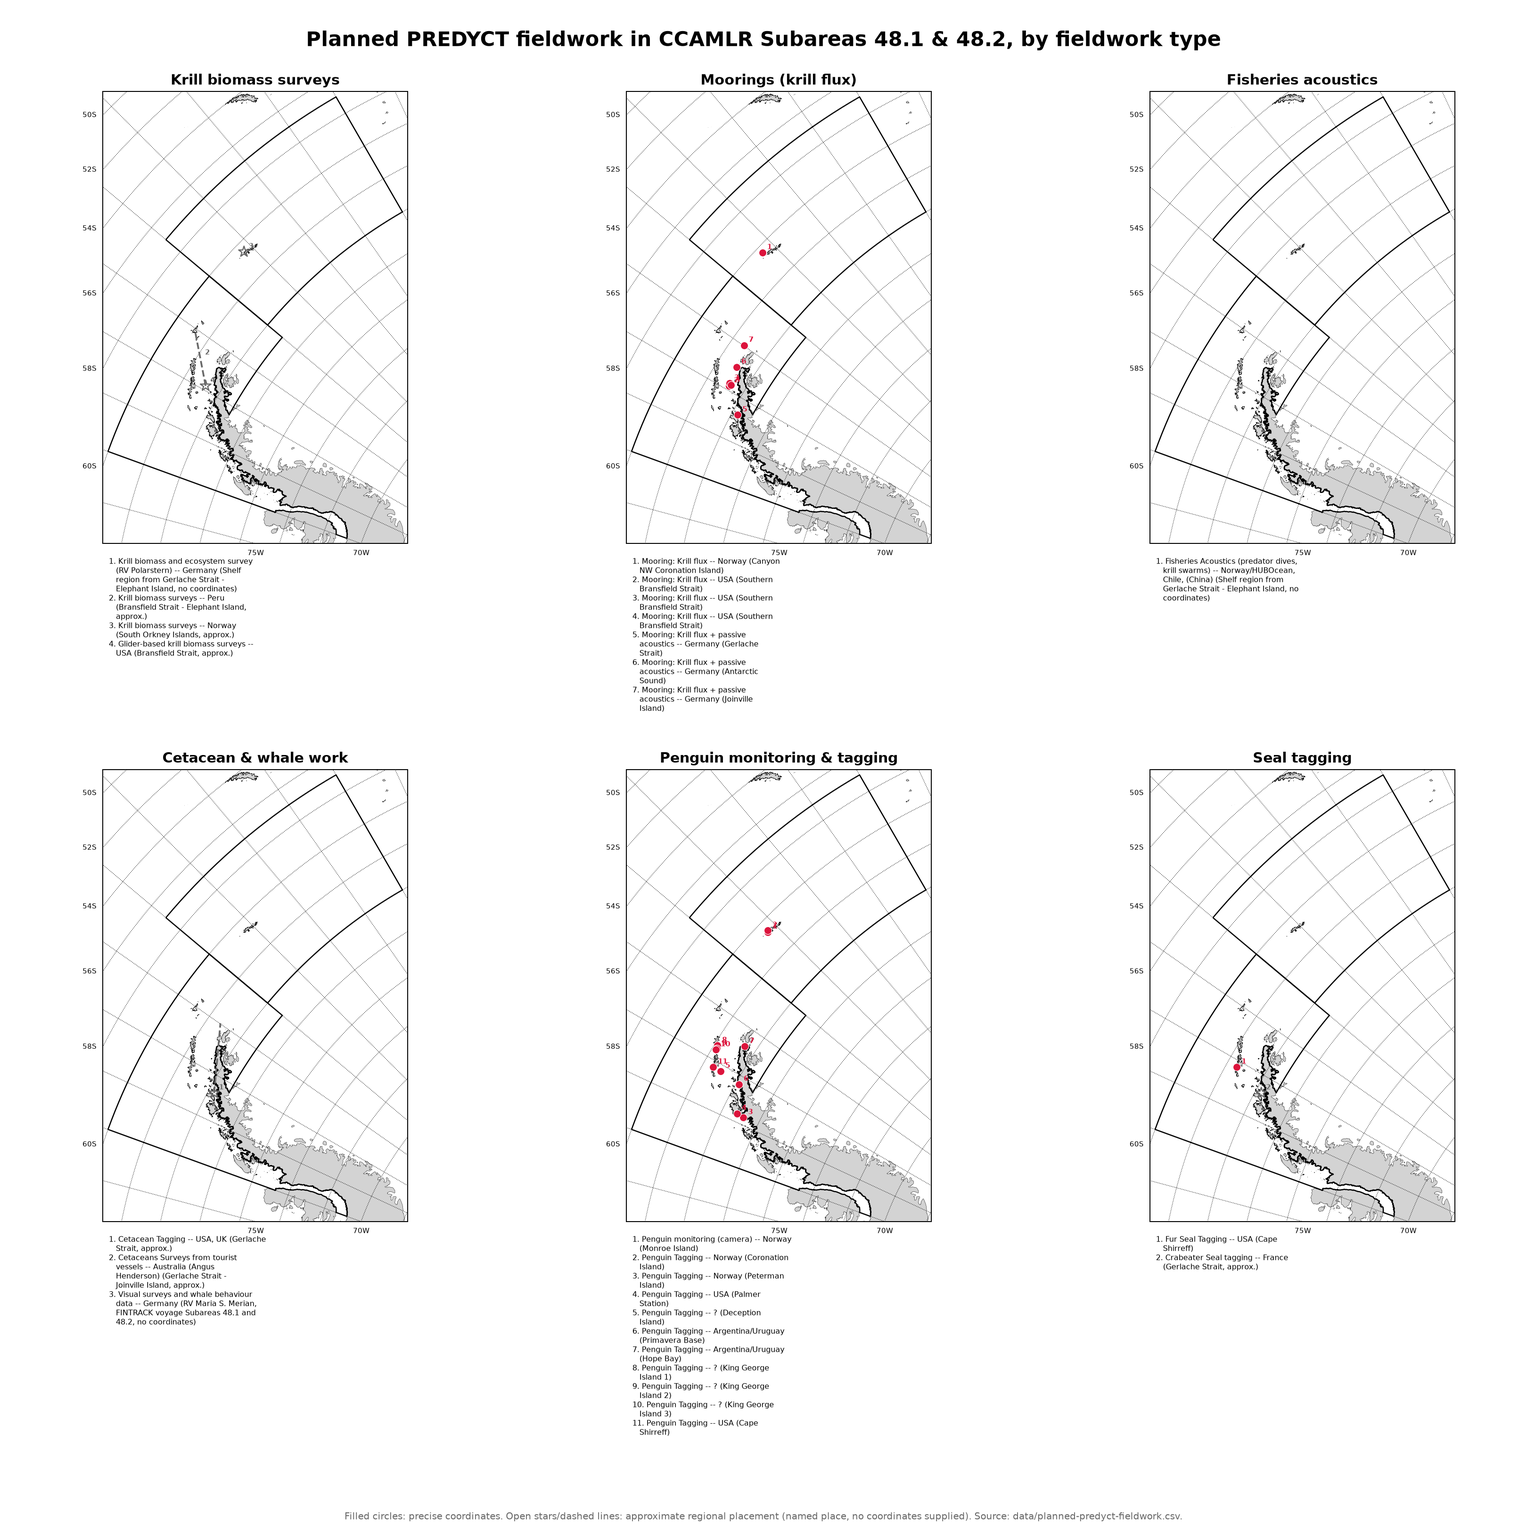
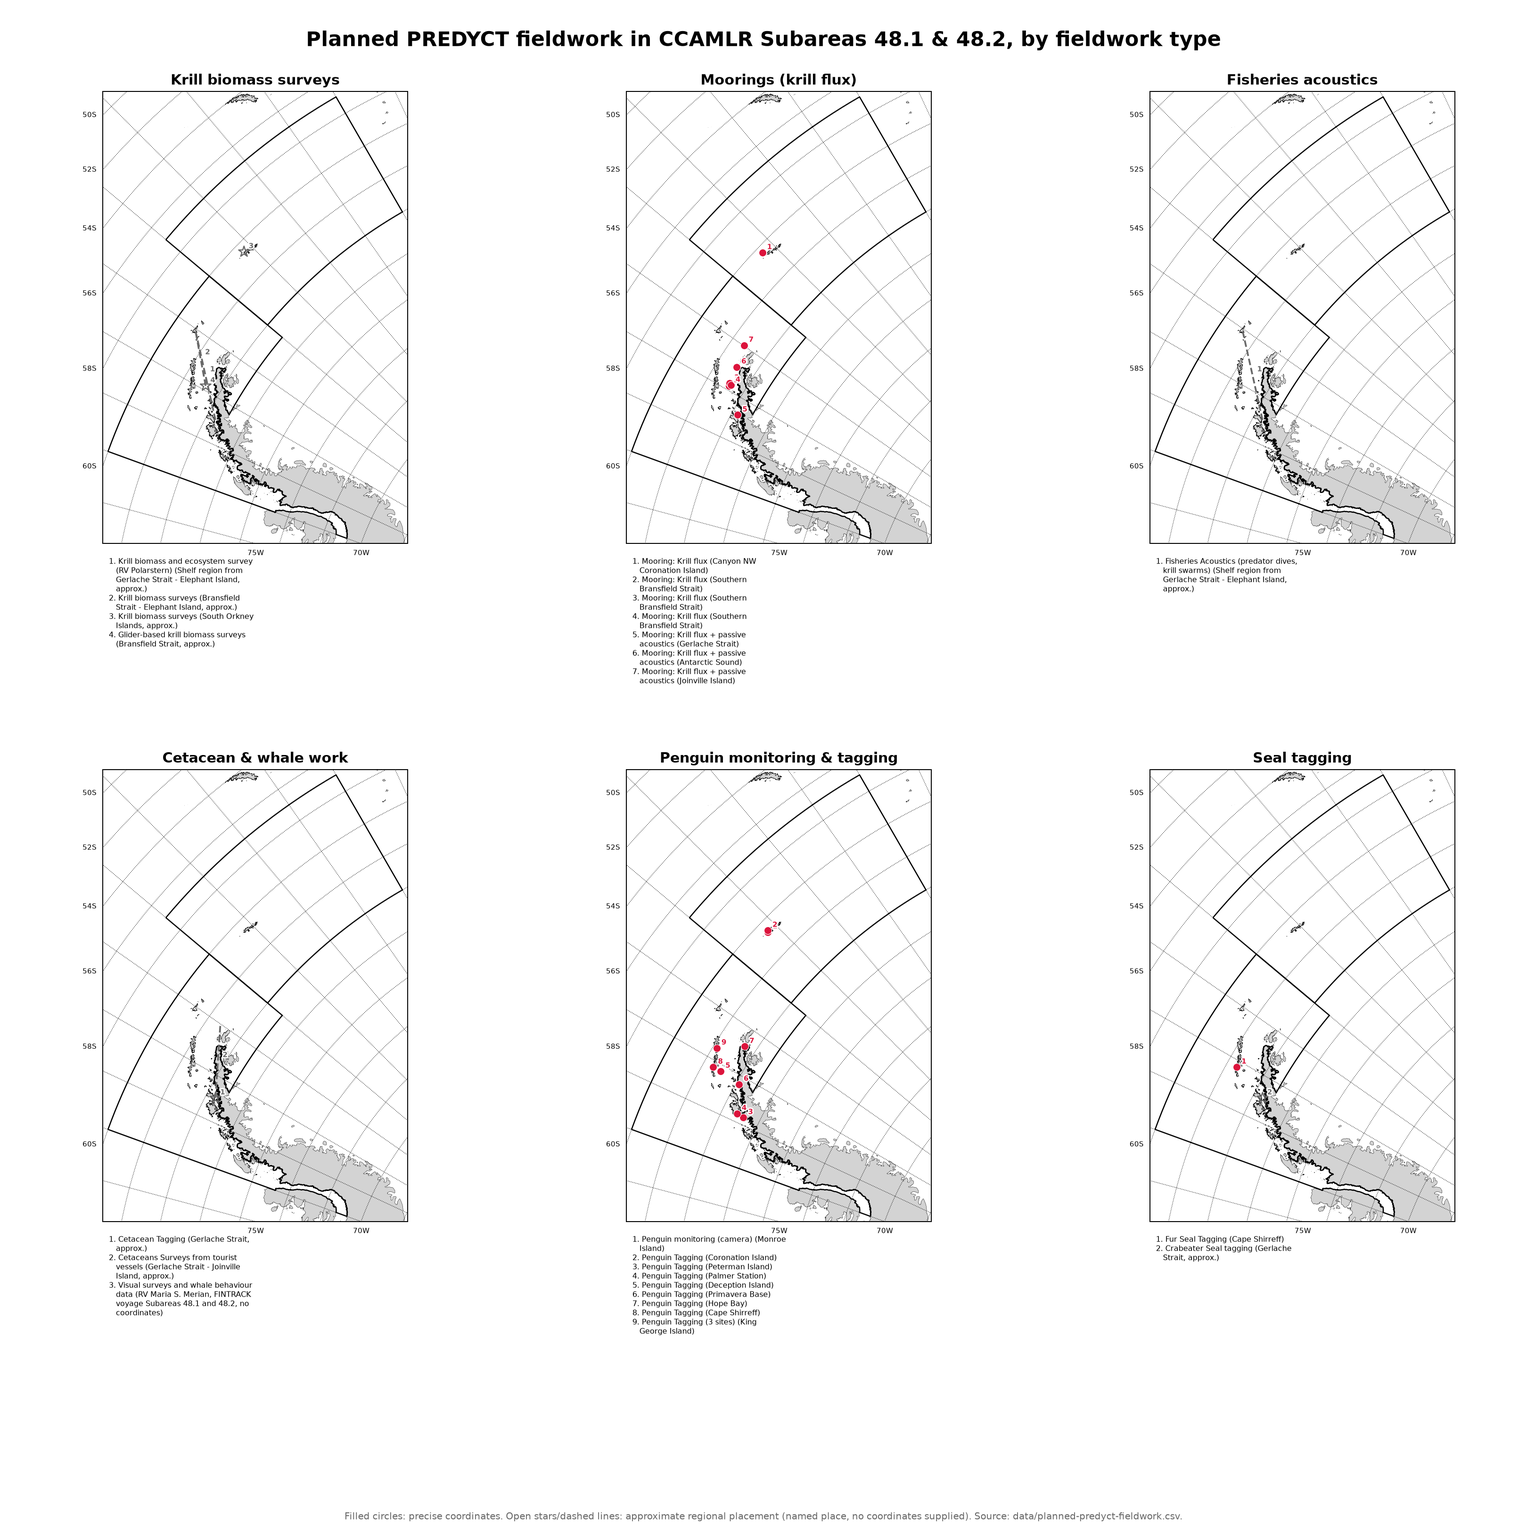
Add fieldwork summary map; group nearby sites and improve label legibility
New: make_subarea48_fieldwork_summary.py -> output/subarea48_fieldwork_summary.png,
a single unfaceted map of every planned activity. Its purpose is to show
*where* effort concentrates (e.g. that Gerlache Strait has both cetacean
tagging and crabeater seal tagging planned), which the by-country/by-type
figures can't show since each activity sits in its own panel. An earlier
prototype tried colour-coding markers by fieldwork type on this map, but
translucent same-point markers of different colours visually blend into a
colour matching neither legend entry, so activities sharing a place are
instead grouped into one marker with all activities named in its footnote.

fieldwork_common.py:
- New group_nearby(): collapses rows at the same named place (or explicitly
  aliased via LOCATION_ALIASES, e.g. three King George Island penguin-tagging
  entries) into a single marker/footnote entry instead of stacking near-
  duplicate markers. Used by build_figure() per-panel and by the new
  build_single_map() for the summary figure.
- New _resolve_place(): PLACE_COORDS lookup now tries an exact match first,
  then falls back to substring containment. Fixes a real bug where "Shelf
  region from Gerlache Strait - Elephant Island" split on " - " produced
  "Shelf region from Gerlache Strait", which never exact-matched the
  "Gerlache Strait" key -- silently dropping 2 CSV rows (Germany's krill
  biomass survey, the Fisheries Acoustics row) to "no coordinates" on every
[…]

diff --git a/fieldwork_common.py b/fieldwork_common.py
@@ -1,6 +1,7 @@
 """Shared plotting logic for the planned-PREDYCT-fieldwork figures
-(by-country and by-fieldwork-type). See make_subarea48_fieldwork_by_country.py
-and make_subarea48_fieldwork_by_type.py.
+(by-country, by-fieldwork-type, and summary). See
+make_subarea48_fieldwork_by_country.py, make_subarea48_fieldwork_by_type.py
+and make_subarea48_fieldwork_summary.py.
 
 Uses ccamlrgis (https://github.com/Zephyr-Sylvester/ccamlrgis-py).
 """
@@ -8,6 +9,7 @@ Uses ccamlrgis (https://github.com/Zephyr-Sylvester/ccamlrgis-py).
 import textwrap
 from collections.abc import Sequence
 
+import matplotlib.patheffects as pe
 import matplotlib.pyplot as plt
 import pandas as pd
 
@@ -17,20 +19,34 @@ import ccamlrgis.plot as cgplot
 CSV_PATH = "data/planned-predyct-fieldwork.csv"
 FOOTNOTE_WRAP_WIDTH = 40
 
-# Reference points for named places the CSV gives no coordinates for,
-# reused from precise coordinates elsewhere in the same CSV where
-# possible (Gerlache Strait, Joinville Island, Bransfield Strait via the
-# Southern Bransfield Strait moorings, South Orkney Islands via the
-# Coronation/Monroe Island cluster) -- Elephant Island is the one place
-# not otherwise pinned down in the data, using its standard charted
-# position. These are regional approximations, not survey boundaries --
-# plotted with a distinct (open star) marker from precise GPS points.
+# Reference points for named places the CSV gives no coordinates for.
+# Manually curated (not derived/eyeballed from other rows) so they stay
+# accurate regardless of what else is in the CSV -- Gerlache Strait and
+# Elephant Island are charted-position centres; Joinville Island,
+# Bransfield Strait and South Orkney Islands are still approximated from
+# nearby precise points elsewhere in the CSV and could use the same
+# manual treatment if better reference coordinates turn up. These are
+# regional approximations, not survey boundaries -- plotted with a
+# distinct (open star) marker from precise GPS points.
 PLACE_COORDS = {
-    "Elephant Island": (-61.133, -55.183),
-    "Gerlache Strait": (-64.3185261, -61.8927691),
+    "Elephant Island": (-61.1333, -55.1167),  # 61 deg 08' S, 55 deg 07' W
+    "Gerlache Strait": (-64.5000, -62.3333),  # 64 deg 30' 00" S, 62 deg 20' 00" W
     "Joinville Island": (-62.685, -54.941),
     "Bransfield Strait": (-63.183, -59.517),
     "South Orkney Islands": (-60.5, -45.9),
+}
+
+# Manually curated: distinct named sites close enough together that
+# showing each on its own marker adds clutter without adding information
+# (e.g. three King George Island tagging sites, a few km apart, on a map
+# already showing a dozen other things). Deliberately a manual alias
+# table rather than a distance-threshold clustering algorithm, so
+# grouping stays predictable and doesn't silently change if a new site
+# happens to land near an existing one.
+LOCATION_ALIASES = {
+    "King George Island 1": "King George Island",
+    "King George Island 2": "King George Island",
+    "King George Island 3": "King George Island",
 }
 
 
@@ -57,44 +73,149 @@ def draw_basemap(ax: plt.Axes, coast_land, asds48, bounds: tuple[float, float, f
     cgplot.add_reference_grid(ax=ax, bounds=bounds, res_lat=2, res_lon=5, fontsize=6, linewidth=0.5)
 
 
+def _halo_annotate(ax: plt.Axes, text: str, xy: tuple[float, float], color: str) -> None:
+    """Number label with a white halo so it stays legible over the
+    (often busy) bathymetry/coastline/marker it sits on, instead of
+    plain coloured text that can disappear against similarly-coloured
+    backgrounds."""
+    artist = ax.annotate(
+        text,
+        xy,
+        color=color,
+        fontsize=6,
+        fontweight="bold",
+        xytext=(4, 3),
+        textcoords="offset points",
+        zorder=6,
+    )
+    artist.set_path_effects([pe.withStroke(linewidth=2.2, foreground="white")])
+
+
+def _resolve_place(text: str) -> tuple[float, float] | None:
+    """Look up a named place in PLACE_COORDS -- exact match first, then
+    substring containment, so e.g. "Shelf region from Gerlache Strait"
+    (one half of a range like "Shelf region from Gerlache Strait -
+    Elephant Island") still resolves via the "Gerlache Strait" entry
+    instead of silently failing to match and never being drawn."""
+    text = text.strip()
+    if text in PLACE_COORDS:
+        return PLACE_COORDS[text]
+    for name, coord in PLACE_COORDS.items():
+        if name in text:
+            return coord
+    return None
+
+
 def plot_row(ax: plt.Axes, row: pd.Series, number: int, label: str) -> str:
     """Draw one CSV row onto ax as a small numbered marker. Returns the
     footnote line ('N. <label> (Location)') listing what that number is,
     for every row -- markers carry a number, not full text, to stay
     legible when several sites cluster close together. `label` is
     whatever the caller wants shown alongside each footnote entry (the
-    activity for the by-country figure, activity + country for the
-    by-type one, so the country isn't lost just because it's no longer
-    the grouping dimension)."""
+    activity for the by-country figure, activity alone for the by-type
+    one, activity + country for the summary)."""
     lat, lon = row["Latitude"], row["Longitude"]
     location = row["Location"]
-    label_kwargs = dict(fontsize=6, fontweight="bold", xytext=(4, 3), textcoords="offset points", zorder=6)
 
     if pd.notna(lat) and pd.notna(lon):
         x, y = project(lat, lon)
         ax.scatter([x], [y], marker="o", color="crimson", edgecolor="white", linewidth=0.5, s=42, zorder=5)
-        ax.annotate(str(number), (x, y), color="crimson", **label_kwargs)
+        _halo_annotate(ax, str(number), (x, y), color="crimson")
         return f"{number}. {label} ({location})"
 
     if " - " in location:
         a, b = (p.strip() for p in location.split(" - ", 1))
-        pa, pb = PLACE_COORDS.get(a), PLACE_COORDS.get(b)
+        pa, pb = _resolve_place(a), _resolve_place(b)
         if pa is not None and pb is not None:
             xa, ya = project(*pa)
             xb, yb = project(*pb)
             ax.plot([xa, xb], [ya, yb], linestyle="--", color="dimgrey", linewidth=1.5, zorder=3)
             mx, my = (xa + xb) / 2, (ya + yb) / 2
-            ax.annotate(str(number), (mx, my), color="dimgrey", **label_kwargs)
+            _halo_annotate(ax, str(number), (mx, my), color="dimgrey")
             return f"{number}. {label} ({location}, approx.)"
 
-    place = PLACE_COORDS.get(location)
+    place = _resolve_place(location)
     if place is not None:
         x, y = project(*place)
         ax.scatter([x], [y], marker="*", facecolor="none", edgecolor="dimgrey", linewidth=1, s=90, zorder=4)
-        ax.annotate(str(number), (x, y), color="dimgrey", **label_kwargs)
+        _halo_annotate(ax, str(number), (x, y), color="dimgrey")
         return f"{number}. {label} ({location}, approx.)"
 
     return f"{number}. {label} ({location}, no coordinates)"
+
+
+def group_nearby(df: pd.DataFrame, label_col: str) -> pd.DataFrame:
+    """Combine rows that represent the same place into one, so the map
+    shows a single labelled marker instead of several stacked/crowded
+    ones. Two cases collapse together: rows with no precise coordinates
+    that share an exact Location string (e.g. cetacean tagging and
+    crabeater seal tagging, both just "Gerlache Strait" -- without this
+    they'd draw two translucent markers stacked exactly on top of each
+    other, which optically blend into a colour matching neither); and
+    precise-coordinate rows whose Location is in LOCATION_ALIASES (e.g.
+    three King George Island sites). Genuinely distinct precise points
+    with no alias are left untouched.
+    """
+    df = df.copy()
+    df["_place"] = df["Location"].map(lambda loc: LOCATION_ALIASES.get(loc, loc))
+    has_coords = df["Latitude"].notna() & df["Longitude"].notna()
+    # Only cluster precise points when their Location is aliased to
+    # something else -- otherwise every row is its own "cluster" of one
+    # and this is a no-op passthrough for genuinely distinct GPS points.
+    should_group = ~has_coords | (df["Location"] != df["_place"])
+
+    rows = [row.to_dict() for _, row in df[~should_group].iterrows()]
+    for _, sub in df[should_group].groupby("_place", sort=False):
+        labels = list(sub[label_col])
+        if len(labels) > 1 and len(set(labels)) == 1:
+            combined_label = f"{labels[0]} ({len(labels)} sites)"
+        else:
+            combined_label = "; ".join(labels)
+        sub_has_coords = sub["Latitude"].notna() & sub["Longitude"].notna()
+        rows.append(
+            {
+                "Location": sub["_place"].iloc[0],
+                label_col: combined_label,
+                "Latitude": sub.loc[sub_has_coords, "Latitude"].mean() if sub_has_coords.any() else float("nan"),
+                "Longitude": sub.loc[sub_has_coords, "Longitude"].mean() if sub_has_coords.any() else float("nan"),
+            }
+        )
+    return pd.DataFrame(rows)
+
+
+def build_single_map(
+    df: pd.DataFrame,
+    label_col: str,
+    title: str,
+    caption: str,
+    out_path: str,
+    figsize: tuple[float, float] = (14, 12),
+) -> None:
+    """One map, every row plotted, no panel grouping -- for a figure
+    meant to show *where effort concentrates* across all activities at
+    once, not to compare across a country/type dimension. The numbered
+    footnote list sits in a sidebar (not below the map) since a
+    non-faceted figure can have many more rows to list than any one
+    panel in the faceted figures does."""
+    df = group_nearby(df, label_col)
+
+    asds = cg.load_asds()
+    asds48 = asds[asds["GAR_Short_Label"].isin(["481", "482"])]
+    coast = cg.load_coastline()
+    coast_land = coast[coast["surface"] == "Land"]
+    bounds = tuple(asds48.buffer(30_000).total_bounds)
+
+    fig = plt.figure(figsize=figsize)
+    ax = fig.add_axes((0.03, 0.06, 0.62, 0.88))
+    draw_basemap(ax, coast_land, asds48, bounds)
+    ax.set_title(title, fontsize=15, fontweight="bold")
+
+    footnotes = [plot_row(ax, row, number, row[label_col]) for number, (_, row) in enumerate(df.iterrows(), start=1)]
+    wrapped = "\n".join(textwrap.fill(line, width=55, subsequent_indent="    ") for line in footnotes)
+    fig.text(0.67, 0.94, wrapped, fontsize=8, va="top", ha="left")
+    fig.text(0.5, 0.01, caption, fontsize=8, ha="center", color="dimgrey")
+    fig.savefig(out_path, dpi=170)
+    print(f"Saved {out_path}")
 
 
 def build_figure(
@@ -113,10 +234,11 @@ def build_figure(
 ) -> None:
     """Shared figure builder: one panel per `group_col` value (in
     `group_order`), each row within that group labelled with its
-    `label_col` value in the footnote list. `hspace` should scale with
-    how many rows the busiest panel's footnote list needs -- a panel
-    with many sites (e.g. 10+ tagging locations) needs more room than
-    one with a couple of survey areas."""
+    `label_col` value in the footnote list -- rows representing the same
+    place are combined first (see `group_nearby`). `hspace` should scale
+    with how many rows the busiest panel's footnote list needs -- a
+    panel with many sites needs more room than one with a couple of
+    survey areas."""
     asds = cg.load_asds()
     asds48 = asds[asds["GAR_Short_Label"].isin(["481", "482"])]
     coast = cg.load_coastline()
@@ -128,10 +250,8 @@ def build_figure(
         draw_basemap(ax, coast_land, asds48, bounds)
         ax.set_title(group_labels.get(group, group), fontsize=12, fontweight="bold")
 
-        footnotes = [
-            plot_row(ax, row, number, row[label_col])
-            for number, (_, row) in enumerate(df[df[group_col] == group].iterrows(), start=1)
-        ]
+        panel_df = group_nearby(df[df[group_col] == group], label_col)
+        footnotes = [plot_row(ax, row, number, row[label_col]) for number, (_, row) in enumerate(panel_df.iterrows(), start=1)]
         wrapped = "\n".join(
             textwrap.fill(line, width=FOOTNOTE_WRAP_WIDTH, subsequent_indent="   ") for line in footnotes
         )

diff --git a/make_subarea48_fieldwork_summary.py b/make_subarea48_fieldwork_summary.py
@@ -1,0 +1,36 @@
+"""Summary map of planned CCAMLR PREDYCT fieldwork in Subareas 48.1
+(Antarctic Peninsula) and 48.2 (South Orkney Islands): one map, every
+activity, no faceting by country or type -- the point is to show *where*
+effort concentrates, e.g. that Gerlache Strait has both cetacean tagging
+and crabeater seal tagging planned, which the by-country/by-type figures
+(each activity in its own panel) can't show. Rows representing the same
+place are combined into a single labelled marker rather than several
+stacked/crowded ones -- see fieldwork_common.group_nearby.
+
+Uses ccamlrgis (https://github.com/Zephyr-Sylvester/ccamlrgis-py).
+"""
+
+from fieldwork_common import build_single_map, load_fieldwork
+
+OUT_PATH = "output/subarea48_fieldwork_summary.png"
+
+
+def main() -> None:
+    df = load_fieldwork()
+    df["Label"] = df["Activity"] + " -- " + df["Who"]
+
+    build_single_map(
+        df,
+        label_col="Label",
+        title="Planned PREDYCT fieldwork in CCAMLR Subareas 48.1 & 48.2 -- summary",
+        caption=(
+            "Filled circles: precise coordinates. Open stars/dashed lines: approximate regional placement "
+            "(named place, no coordinates supplied); activities/sites sharing a place are listed together "
+            "under one marker. Source: data/planned-predyct-fieldwork.csv."
+        ),
+        out_path=OUT_PATH,
+    )
+
+
+if __name__ == "__main__":
+    main()

diff --git a/make_subarea48_fieldwork_by_type.py b/make_subarea48_fieldwork_by_type.py
@@ -5,8 +5,6 @@ Peninsula) and 48.2 (South Orkney Islands), one panel per fieldwork type
 Uses ccamlrgis (https://github.com/Zephyr-Sylvester/ccamlrgis-py).
 """
 
-import pandas as pd
-
 from fieldwork_common import build_figure, load_fieldwork
 
 OUT_PATH = "output/subarea48_fieldwork_by_type.png"
@@ -44,16 +42,13 @@ def main() -> None:
     unmatched = df[df["FieldworkType"] == "Other"]
     if not unmatched.empty:
         raise ValueError(f"Uncategorised activities, update categorize(): {unmatched['Activity'].tolist()}")
-    # who is doing it, shown alongside the (now panel-grouped) activity, e.g.
-    # "Mooring: Krill flux + passive acoustics -- Germany"
-    df["ActivityWho"] = df["Activity"] + " -- " + df["Who"]
 
     build_figure(
         df,
         group_col="FieldworkType",
         group_order=TYPE_ORDER,
         group_labels={},
-        label_col="ActivityWho",
+        label_col="Activity",
         title="Planned PREDYCT fieldwork in CCAMLR Subareas 48.1 & 48.2, by fieldwork type",
         caption=(
             "Filled circles: precise coordinates. Open stars/dashed lines: approximate regional placement "

diff --git a/README.md b/README.md
@@ -40,16 +40,21 @@ Scotia Sea) at a higher bathymetry resolution.
 ### Planned PREDYCT fieldwork, Subareas 48.1 & 48.2
 
 `fieldwork_common.py` holds the shared plotting logic (basemap, numbered
-markers, wrapped per-panel footnotes) for two figures, both reading
-`data/planned-predyct-fieldwork.csv` -- gitignored, not in this repo;
-supply your own CSV with `Location,Longitude,Latitude,Activity,Who`
-columns to reproduce either one.
+markers, wrapped footnotes, near-duplicate grouping) for three figures,
+all reading `data/planned-predyct-fieldwork.csv` -- gitignored, not in
+this repo; supply your own CSV with `Location,Longitude,Latitude,Activity,Who`
+columns to reproduce any of them.
 
-Both: filled circles are precise GPS coordinates from the CSV; open
+All three: filled circles are precise GPS coordinates from the CSV; open
 stars and dashed lines are approximate placements for named regions the
-CSV didn't supply coordinates for (not survey boundaries). Numbered
-markers avoid label collisions where sites cluster close together; each
-panel's numbered footnote gives the full detail.
+CSV didn't supply coordinates for (not survey boundaries), using a small
+manually-curated table of region coordinates (`PLACE_COORDS`) rather than
+anything derived automatically. Numbered markers (with a white text halo
+for legibility over the basemap) avoid label collisions where sites
+cluster close together; sites at the same named place are also grouped
+into a single marker/footnote entry (`LOCATION_ALIASES`, e.g. three
+separate King George Island penguin-tagging efforts collapse to one
+"(3 sites)" entry) rather than stacking near-identical markers.
 
 **By country** -- `make_subarea48_fieldwork_by_country.py` ->
 `output/subarea48_fieldwork_by_country.png`. One panel per leading
@@ -61,13 +66,25 @@ mooring, cetacean, penguin and seal fieldwork falls.
 **By fieldwork type** -- `make_subarea48_fieldwork_by_type.py` ->
 `output/subarea48_fieldwork_by_type.png`. One panel per discipline (krill
 biomass surveys, moorings, fisheries acoustics, cetacean & whale work,
-penguin monitoring & tagging, seal tagging) instead of per country, each
-footnote naming which country does that site. Activity strings are
-mapped to a fieldwork type by keyword match (`categorize()`); it raises
-if a new CSV row doesn't match any known keyword, rather than silently
-dropping it into the wrong panel.
+penguin monitoring & tagging, seal tagging) instead of per country.
+Activity strings are mapped to a fieldwork type by keyword match
+(`categorize()`); it raises if a new CSV row doesn't match any known
+keyword, rather than silently dropping it into the wrong panel.
 
 ![Planned PREDYCT fieldwork by type](output/subarea48_fieldwork_by_type.png)
+
+**Summary** -- `make_subarea48_fieldwork_summary.py` ->
+`output/subarea48_fieldwork_summary.png`. A single unfaceted map of every
+planned activity, meant to show *where* effort concentrates rather than
+compare countries or disciplines -- e.g. that Gerlache Strait has both
+cetacean tagging and crabeater seal tagging planned, which the faceted
+figures above can't show since each activity sits in its own panel.
+Activities sharing a place are listed together under one marker rather
+than distinguished by marker colour, since overlapping translucent
+colours at the same point blend into a colour matching neither legend
+entry.
+
+![Planned PREDYCT fieldwork summary](output/subarea48_fieldwork_summary.png)
 
 ## License
 
